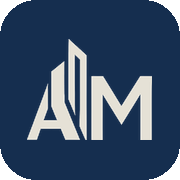
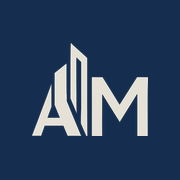
Add files via upload

diff --git a/index.html b/index.html
@@ -9,8 +9,15 @@
   <link rel="icon" type="image/x-icon" href="favicon.ico">
   <link rel="icon" type="image/png" sizes="16x16" href="favicon-16x16.png">
   <link rel="icon" type="image/png" sizes="32x32" href="favicon-32x32.png">
+  <link rel="apple-touch-icon" href="apple-touch-icon.png">
+  <link rel="apple-touch-icon" sizes="120x120" href="apple-touch-icon-120x120.png">
+  <link rel="apple-touch-icon" sizes="152x152" href="apple-touch-icon-152x152.png">
+  <link rel="apple-touch-icon" sizes="167x167" href="apple-touch-icon-167x167.png">
   <link rel="apple-touch-icon" sizes="180x180" href="apple-touch-icon.png">
   <link rel="manifest" href="site.webmanifest">
+  <meta name="apple-mobile-web-app-title" content="AM Administración">
+  <meta name="apple-mobile-web-app-capable" content="yes">
+  <meta name="apple-mobile-web-app-status-bar-style" content="black-translucent">
   <meta name="theme-color" content="#152E4F">
 
   <!-- Open Graph / Social Sharing -->